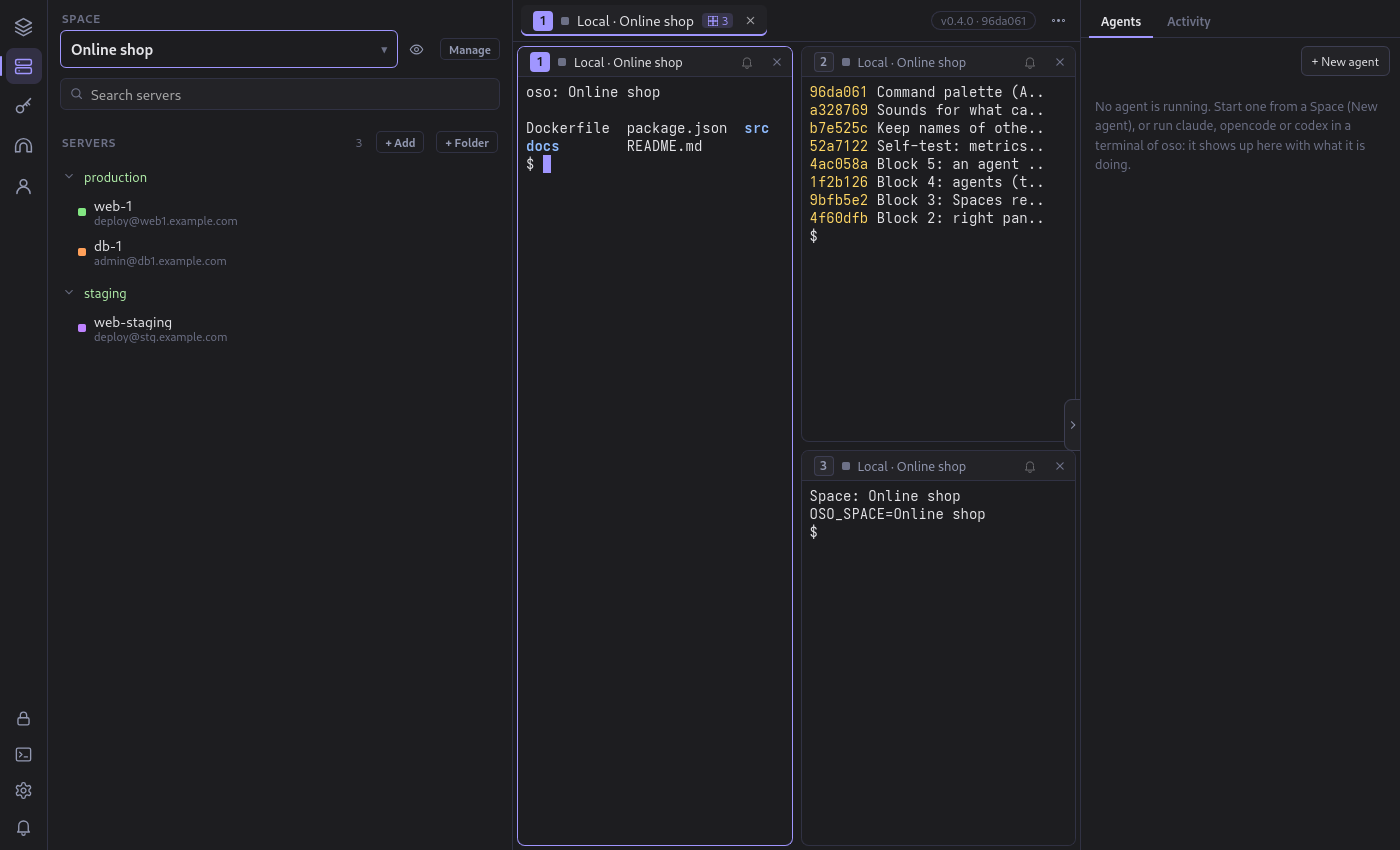
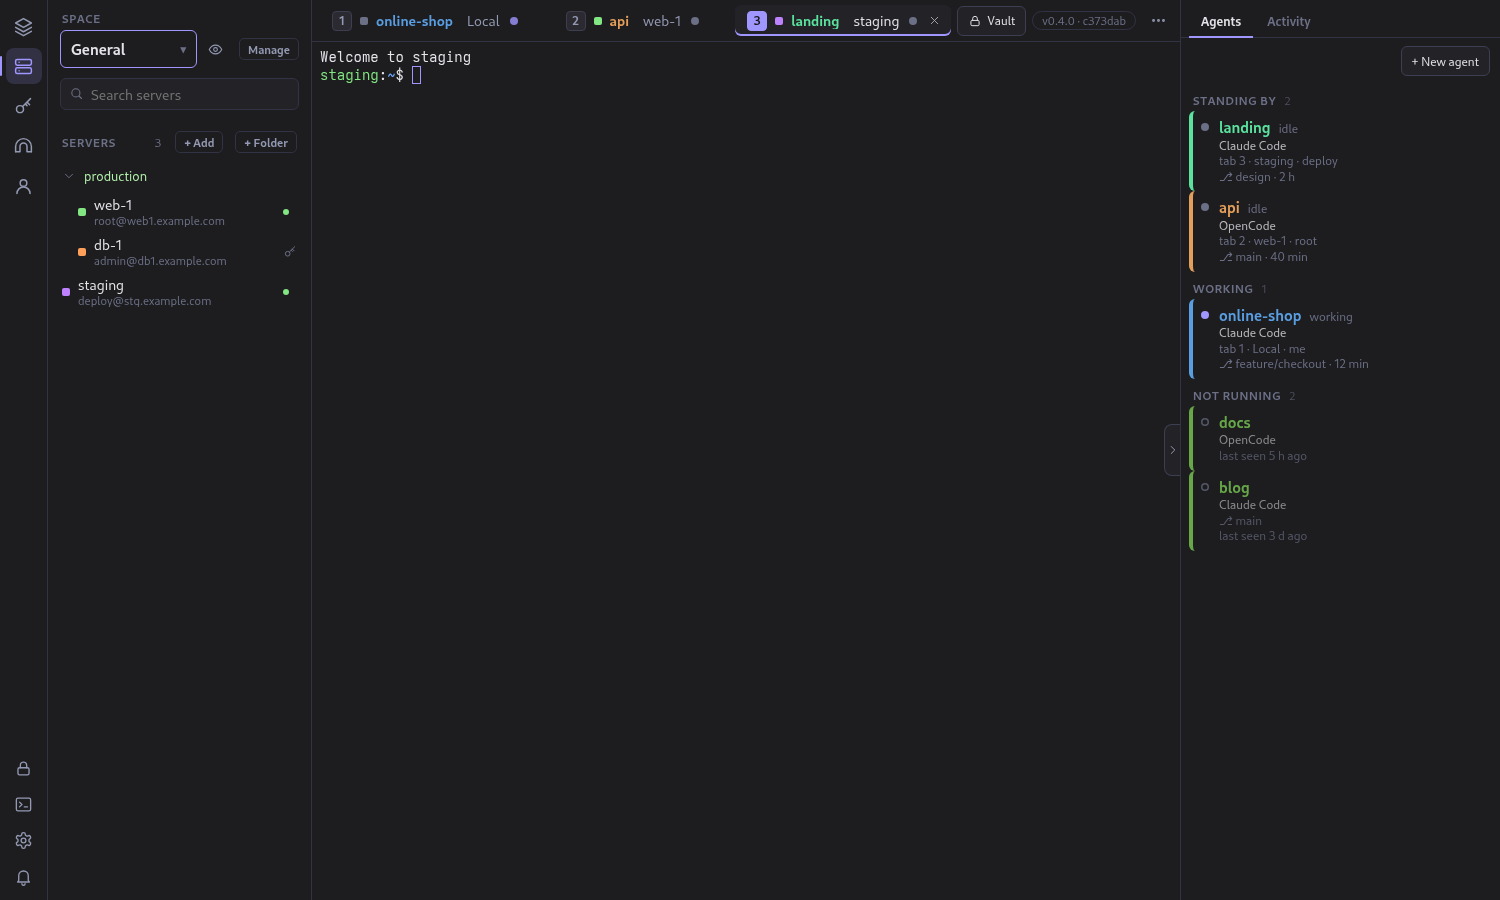
One-line installer (install.sh), README: Install, agents that stay, tunnel links, Allow all, Vault; new window picture with demo data; neutral user name in examples

diff --git a/ui/tests/agents_state.test.ts b/ui/tests/agents_state.test.ts
@@ -51,10 +51,10 @@ describe("the attention queue", () => {
 });
 
 describe("what is said from outside the window", () => {
-  const now = (state: AgentState, sid = 1) => [{ sid, name: "Claude Code", state, where: "tab 1 · Local · seya" }];
+  const now = (state: AgentState, sid = 1) => [{ sid, name: "Claude Code", state, where: "tab 1 · Local · me" }];
   it("is said when an agent starts to need you, and when one that was working finishes, once", () => {
-    expect(noticesFor(new Map([[1, "working"]]), now("needs_you"))).toEqual([{ event: "needs", sid: 1, title: "Claude Code needs you", body: "tab 1 · Local · seya" }]);
-    expect(noticesFor(new Map([[1, "working"]]), now("finished"))).toEqual([{ event: "finished", sid: 1, title: "Claude Code finished", body: "tab 1 · Local · seya" }]);
+    expect(noticesFor(new Map([[1, "working"]]), now("needs_you"))).toEqual([{ event: "needs", sid: 1, title: "Claude Code needs you", body: "tab 1 · Local · me" }]);
+    expect(noticesFor(new Map([[1, "working"]]), now("finished"))).toEqual([{ event: "finished", sid: 1, title: "Claude Code finished", body: "tab 1 · Local · me" }]);
     expect(noticesFor(new Map([[1, "needs_you"]]), now("needs_you"))).toEqual([]);
   });
   it("says nothing the first time an agent is seen, nor for a finish that was not after work, nor for work or rest", () => {

diff --git a/ui/src/rpanel.ts b/ui/src/rpanel.ts
@@ -132,7 +132,7 @@ export interface AgentRow {
   sid: number;
   /** "Claude", "Opencode"… */
   name: string;
-  /** The tab as the person sees it: "tab 1 · Local · seya". */
+  /** The tab as the person sees it: "tab 1 · Local · me". */
   where: string;
   folder: string;
   branch: string;
@@ -180,7 +180,7 @@ export interface PanelCtx {
   newAgent(): void;
   /** Goes to the tab of this terminal. */
   focus(sid: number): void;
-  /** The tab as the person sees it ("tab 1 · Local · seya"), or `undefined` when that terminal is closed. */
+  /** The tab as the person sees it ("tab 1 · Local · me"), or `undefined` when that terminal is closed. */
   tabLabel(pane: number): string | undefined;
   /** In focus mode no panel is shown and nothing opens one by itself. */
   focusMode(): boolean;

diff --git a/ui/src/api.mock.ts b/ui/src/api.mock.ts
@@ -337,7 +337,7 @@ export function mockBackend(): Backend {
       const a = activity.find((x) => x.id === id) as (Activity & { output?: string }) | undefined;
       return a ? { command: a.command, output: a.output ?? a.preview, cut: false } : null;
     },
-    localUser: async () => "seya",
+    localUser: async () => "me",
     agentStatus: async (pending) => {
       // as the engine does: a request waiting makes its terminal "needs you", also when nothing else is known about the agent there
       const rows: AgentStatusRow[] = agents.map((a) => ({ ...a, ...(pending.includes(a.sid) ? { state: "needs_you" as const, source: "approval" as const } : {}) }));

diff --git a/ui/src/api.ts b/ui/src/api.ts
@@ -413,7 +413,7 @@ export interface Backend {
   auditRecent(limit: number): Promise<AuditEntry[]>;
   /** The whole command and output of one request (what Details shows); `null` for an old log line. */
   activityDetail(id: number): Promise<ActivityDetail | null>;
-  /** The name of the person using this computer ("seya"). */
+  /** The name of the person using this computer ("me"). */
   localUser(): Promise<string>;
   /** The agents that run in the terminals, and what each is doing. `pending`: terminals with a request waiting. */
   agentStatus(pending: number[]): Promise<AgentStatusRow[]>;

diff --git a/ui/tests/rpanel.test.ts b/ui/tests/rpanel.test.ts
@@ -41,7 +41,7 @@ describe("the words of the panel", () => {
     expect(resultLabel(act({ state: "running" }))).toBe("running…");
     expect(resultLabel(act({ state: "denied" }))).toBe("not run");
     expect(resultLabel(act({ state: "done" }))).toBe("");
-    expect(whoLabel(act(), "tab 1 · Local · seya")).toBe("Claude · tab 1 · Local · seya");
+    expect(whoLabel(act(), "tab 1 · Local · me")).toBe("Claude · tab 1 · Local · me");
     expect(whoLabel(act({ agent: "" }))).toBe("An AI agent · terminal closed");
   });
 });

diff --git a/ui/src/app.ts b/ui/src/app.ts
@@ -899,7 +899,7 @@ export class App {
 
   // ------------------------------------------------------------ rendering
 
-  /** The tab of a terminal as the person sees it: "tab 1 · Local · seya". `undefined` when it is closed. */
+  /** The tab of a terminal as the person sees it: "tab 1 · Local · me". `undefined` when it is closed. */
   private tabLabel(sid: number): string | undefined {
     const t = this.ws.tabs.get(sid);
     if (!t) return undefined;

diff --git a/src-tauri/src/main.rs b/src-tauri/src/main.rs
@@ -235,7 +235,7 @@ fn agent_activity_detail(state: State<AppState>, id: u64) -> Res<Option<oso_core
     Ok(oso_core::audit::find_detail(&path, id))
 }
 
-/// Who is using this computer, for the label of a terminal ("tab 1 · Local · seya").
+/// Who is using this computer, for the label of a terminal ("tab 1 · Local · me").
 #[tauri::command]
 fn local_user() -> String {
     std::env::var("USER")

diff --git a/README.md b/README.md
@@ -9,8 +9,21 @@ A graphical SSH workspace for Linux: your servers in a tree, terminals that tile
 you can change. Passwords live in an encrypted vault and are typed for you at the prompt they belong to.
 
 <p align="center">
-  <img src="assets/oso-window.png" width="900" alt="oso: the Space selector and server tree on the left, three terminals of the Space in the middle, the agents panel on the right">
+  <img src="assets/oso-window.png" width="900" alt="oso: the server tree on the left, tabs named after the project of the agent in them, and the Agents panel on the right with Standing by, Working and Not running">
 </p>
+
+## Install
+
+Linux, x86_64, no root needed:
+
+```sh
+curl -fsSL https://raw.githubusercontent.com/seyadog/oso-tools/main/install.sh | sh
+```
+
+It downloads the latest release, checks its checksum, puts the program in `~/.local/share/oso`, a link `oso` in `~/.local/bin`
+and an entry in the applications menu. It needs WebKitGTK 4.1 (Fedora: `sudo dnf install webkit2gtk4.1`; Debian/Ubuntu:
+`sudo apt install libwebkit2gtk-4.1-0`); the script tells you if something is missing. To remove it: delete
+`~/.local/share/oso`, `~/.local/bin/oso` and `~/.local/share/applications/oso.desktop` (your data in `~/.config/oso` stays).
 
 Servers, folders and the vault live in `~/.config/oso` (`servers.json`, `vault.json`); layout, hotkeys and snippets are saved there too.
 
@@ -30,22 +43,23 @@ Servers, folders and the vault live in `~/.config/oso` (`servers.json`, `vault.j
 - **Closing:** the **×** on a terminal, or `Alt+W`. A session that ended cleanly closes itself; one that failed stays with `Enter: reconnect`.
 - **Broadcast:** `Alt+B` (or the broadcast icon): what you type goes to every terminal of *this tab*, on or off. It belongs to the tab: other tabs are not touched, and a tab keeps it across restarts.
 - **Agents:** in a Space, *New agent* asks for a folder and an agent (Claude Code, OpenCode, Codex, or any command you add under Settings → Agents), optionally in a **git worktree** of its own (a new branch in `<repo>.worktrees/<branch>`, so that several agents do not step on each other), opens a local terminal there with the Space's secrets and key, and starts the agent. oso also **finds agents you start by hand** in any of its local terminals (it looks at the processes that carry the terminal's `OSO_PANE`) and shows, in the right panel's *Agents* tab (grouped by Space), the agent, folder, git branch, state and how long: **needs you** (a request of its own is waiting in oso: exact), **working**, **finished**, **idle**. The state comes from the most exact signal there is: a request waiting in oso, then the agent's own hooks (`oso integration install claude|opencode` also writes them: Claude Code's `hooks` in `~/.claude/settings.json`, an OpenCode plugin in `~/.config/opencode/plugins/oso.js`; they run `oso hook <agent> <event>`, which prints nothing and never fails), then the process (ended = finished); only when all that is known is "it runs" does the window guess from the screen (marked "guessed"). A dot on each tab shows it; `Alt+N` jumps to the agent that needs you (the one that has waited longest first, then the next); a desktop notice (`notify-send`, click to go to the tab) says when one needs you or finishes while oso is not in front.
+- **Agents that stay:** the Agents tab has three groups: **Standing by** (open, doing nothing), **Working** and **Not running**. An agent oso has seen once stays in *Not running* after you close it or restart the computer (with its folder, branch and Space); a click opens a terminal in that folder and starts it again. A terminal you close stays there too (one entry per server and folder): a click opens it again. The tab of a terminal with an agent shows the project's name in the agent's colour, so you know which one is which. `×` takes an entry off the list.
 - **Sounds and colour for what calls for you:** a sound plays when an agent finishes, when one needs you (a request waiting, or waiting for your answer) and when a terminal you were watching with the bell is done; the terminal and its tab get a colour border (green: done, amber: needs you) until you look at them. It stays quiet while the window is in front on that very tab, and one agent does not sound more than once every 5 seconds. Settings → Sounds: on or off, volume, and for each of the two events oso's sound, the sound of the system (the desktop theme's `complete` and `message`) or a file of yours, each with a Test button. The audio is the window's own; the sound that comes with oso is part of the app.
 - **Spaces:** a Space is one piece of work: its work folders (repos), servers (single ones or whole folders of the tree), secrets (API keys, SSH keys), tunnels that open with it, free-text notes, and the tabs you open for it. Make one from the Spaces icon on the left rail (*+ New Space*), or arrange some terminals in a tab and press `Alt+G` (*Save this tab in a Space*). Double-click a Space and its tabs come back as they were (the saved commands are typed only once the terminal shows a prompt, never at a password question) and its tunnels start; a terminal opened in a Space gets only that Space's secrets and its own ssh-agent (only that Space's keys), and starts in its folder. Saved in `oso-spaces.json`. The groups of older versions (`groups.json`) became one Space each the first time; the old file is kept as `groups.json.migrated`.
 - **Reconnecting:** if a connection drops (wifi, a laptop that slept), the terminal counts down and connects again by itself, with growing waits (2 s up to 1 min, 8 tries), keeping what it showed and marking where it reconnected. `Enter` connects at once, `Esc` stops. It never retries after a refused login (a wrong password could lock the account). A new connection is a new shell: programs that ran on the server are gone (use a terminal multiplexer on the server to keep them).
 - **Changed server key:** if a server shows a different key than the saved one, oso says what that means in plain words, shows the new fingerprint and offers to forget the old key (`ssh-keygen -R`).
 - **Tell me when it is done:** after you start a long command, `Alt+A` (the bell). When the terminal is back at its prompt (or has been silent for 20 s, or its connection ended) you get a message, a desktop notification if you are looking elsewhere (`notify-send`), and a mark on the tab. It speaks once.
-- **Tunnels:** `Alt+T` (or the tunnel icon, bottom left). Port forwards per server, each with a switch: *local* (a port here that leads to something the server can reach, `ssh -L`), *remote* (`ssh -R`) and *SOCKS proxy* (`ssh -D`). They use the same login and jump hosts as a terminal, and stay on while oso is open. A failure is shown next to the tunnel in words (port in use, login refused…).
+- **Tunnels:** `Alt+T` (or the tunnel icon, bottom left). Port forwards per server, each with a switch: *local* (a port here that leads to something the server can reach, `ssh -L`), *remote* (`ssh -R`) and *SOCKS proxy* (`ssh -D`). They use the same login and jump hosts as a terminal, and stay on while oso is open. A failure is shown next to the tunnel in words (port in use, login refused…). A *local* tunnel that is on shows its address (`http://localhost:PORT`): click it to open it in the browser, or copy it. Tunnels can be edited from the left panel too.
 - **Files:** drag files or folders from your file manager onto a terminal to upload them to its server, or `Alt+U` to type the paths (it also downloads). Uses `scp` with the same login and jump hosts; progress shows at the bottom right.
 - **Open a host:** double-click it in the list, the ▶ on it, drag it onto the screen, or `Alt+K` (type a few letters, Enter). Snippets (saved commands) are in the toolbar; Settings has the hotkeys.
 - **Servers:** the same host can be opened as many times as you want. Drag a server onto a folder to file it. Servers can go through a jump host. 
-- **Secrets:** the key icon (bottom left) opens the vault: named, typed secrets (password, sudo password, SSH key, API key, token, one-time codes), each in one Space or in General, and with an optional environment variable. Filter by text, type or Space; show, copy (the clipboard is cleared after 30 s), change or delete each one; secrets not changed for 90 days are marked. Names and notes are encrypted too. A server's saved passwords are secrets like the others. A vault from an older oso is migrated when it is opened, and the old file is kept as `vault.json.v1.bak`.
+- **Secrets:** the **Vault** button (top bar) or the key icon opens the vault; the list on the left also shows each secret with *show* (15 seconds) and *copy*: named, typed secrets (password, sudo password, SSH key, API key, token, one-time codes), each in one Space or in General, and with an optional environment variable. Filter by text, type or Space; show, copy (the clipboard is cleared after 30 s), change or delete each one; secrets not changed for 90 days are marked. Names and notes are encrypted too. A server's saved passwords are secrets like the others. A vault from an older oso is migrated when it is opened, and the old file is kept as `vault.json.v1.bak`.
 - **General, and which Space you work in:** there is no other grouping than Spaces. What is in no Space is **General** and is available in every Space. The selector at the top of the left panel says which Space you work in (*General* when none; the eye shows everything of every Space; *Manage* edits the Space in use, or what General fixes). A server, a folder of the tree or a secret is in one Space or in General: choose it in its form (*Space*) or in the Space's own form. A Space's agent sees its own things and General's, never another Space's; an agent in General sees only General. A Space (and General) can fix a Tailscale account, a GitHub account and a default proxy for its terminals; oso asks before switching accounts. The choice is remembered in `settings.json`. Older versions had *profiles*: the first time this version starts, each became a Space (the default one became General), a copy of the old files is kept in `backup-before-spaces-<time>/` and oso tells you once.
 - **Local terminals and secrets:** a terminal of this computer is born inside the Space in use (or General): its environment has `OSO=1`, `OSO_SPACE` (the Space's name, or `General`), and every secret of General and of that Space (the Space's wins) that has an environment variable and is marked as visible to agents (for example `ANTHROPIC_API_KEY`), so an agent started there needs no `.env` and no key pasted into a chat. With the vault locked the terminal still opens, without secrets, and its title says so. Each such terminal also gets a private `OSO_PANE` / `OSO_TOKEN` / `OSO_SOCKET`. "This computer's sudo password" (in Secrets) is typed at sudo's question (`[sudo] password for…`, also in Spanish), once per command, never twice in a row.
 - **Notes, kind, proxy and tunnels per server:** a server's form has free **notes** ("nginx + API node, logs in /var/log/your-service"), what it is for (**production** draws its tab and terminal in red) and the **proxy** it connects through. A proxy (SOCKS5 or HTTP, saved from *Manage*, *Proxies…*) is used by the first hop of the connection with `ncat` (Fedora: `nmap-ncat`) or the OpenBSD `nc`; if neither is installed oso says so instead of connecting. A Space (or General) can also have a default proxy: its local terminals get `HTTP_PROXY`, `HTTPS_PROXY`, `ALL_PROXY` and `NO_PROXY` (and lowercase), in that terminal only. Tunnels have a name; **Tunnels** on the left lists them with a switch each, and one marked *open with every terminal* is added (`-L`/`-R`/`-D`) to every terminal of its server.
 - **Accounts (GitHub and Tailscale):** oso does not keep their tokens; it only switches them, by asking `gh` (`gh auth switch`) and `tailscale` (`tailscale switch`). The **Accounts** section on the left shows who is in use and a *Use* button for each other account (a tool that is not installed is hidden). A Space (or General) can ask for a GitHub user and a Tailscale account: when you switch to it oso shows which ones would change and asks (*Switch*, *Go in without switching* or *Cancel*); a switch that fails is shown without stopping the rest. A server can say it is reached on `tailscale:<account>`; if another account is in use oso asks *Switch to …?* (or *Connect anyway*) before it launches ssh. Note: Tailscale only lists its accounts to an *operator*; without it oso shows the account in use and says to run `sudo tailscale set --operator=$USER` once.
 - **SSH keys in the vault, and oso as an ssh-agent:** an *SSH key* secret holds an OpenSSH private key (without a passphrase). A server whose authentication is *Key from the vault* logs in with it: oso offers the key through its own ssh-agent (a private socket, `$XDG_RUNTIME_DIR/oso/agent.sock`, mode 0600) and only while the vault is unlocked; with it locked there is nothing to list and nothing to sign, and the private key never leaves oso (`ssh` only receives signatures; RSA signs with SHA-2, never SHA-1). Each hop of a jump chain signs with its own key. Local terminals also get `SSH_AUTH_SOCK`, so `git push` works inside oso: the agent hands on to the agent that was running before (yours), so the keys you already had keep working there. *Secrets → Import from ~/.ssh…* shows what is in `~/.ssh` (keys `id_*` and the hosts of `config`, with their `ProxyJump`), asks the passphrase of a key once, and keeps the key in the vault; **your files are never changed or deleted by the import**: afterwards it only asks if you want the originals deleted, with *keep them* as the first answer. Keys that cannot go in the vault (FIDO security keys, old PEM format) stay as a key file.
-- **Right panel (`Alt+J`, or the arrow on the right edge):** *Sessions* lists every open terminal (server, Space, since when, production in red); a click goes to its tab and the cross closes it. *Agent activity* lists everything an AI agent asked of oso, newest first: which agent and pane, the server, the exact command, whether you allowed it or it went through by itself (and under which policy), and how it ended (exit code; *Details* shows why it was decided and the first lines of the output). A request that is waiting sits at the top, in amber, and is answered right there (*Deny*, *In a terminal*, *Allow once*). With the panel open there is no window over the screen; with it closed the request comes as a window, as before, and the arrow shows an amber dot (waiting) or a violet one (an agent did something since you last looked). Drag the panel's left edge to change its width; open/closed and width are remembered. The data is read from `audit.jsonl`.
+- **Right panel (`Alt+J`, or the arrow on the right edge):** *Sessions* lists every open terminal (server, Space, since when, production in red); a click goes to its tab and the cross closes it. *Agent activity* lists everything an AI agent asked of oso, newest first: which agent and pane, the server, the exact command, whether you allowed it or it went through by itself (and under which policy), and how it ended (exit code; *Details* shows why it was decided and the first lines of the output). **Ask / Allow all** at the top of *Activity*: *Allow all* lets everything through without asking, except hosts marked production, until you close oso (it always starts in *Ask*). A request that is waiting sits at the top, in amber, and is answered right there (*Deny*, *In a terminal*, *Allow once*). With the panel open there is no window over the screen; with it closed the request comes as a window, as before, and the arrow shows an amber dot (waiting) or a violet one (an agent did something since you last looked). Drag the panel's left edge to change its width; open/closed and width are remembered. The data is read from `audit.jsonl`.
 - **AI agents (`oso mcp`):** any agent that speaks MCP (Claude Code, OpenCode, Codex…) can use oso instead of being handed passwords. Each oso terminal gets a private token (`OSO_TOKEN`, with `OSO_PANE` and `OSO_SOCKET`); `oso mcp` (the same program, started by the agent) asks oso's background server, which only answers a request whose token belongs to a terminal that is still open: **outside oso there is no access**. The tools: `oso_context` (call it first: the Space, servers with their notes and whether they are production, tunnels, the *names* of the variables and secrets, never a value), `oso_hosts`, `oso_run` (a command on a server, no terminal, with stdout, stderr and exit code; if the command uses `sudo` the answer carries a `sudo_note` saying whether a sudo password is saved for that server, because a command run this way cannot answer sudo's password question), `oso_sudo` (sudo on this computer; oso types the password), `oso_run_with` (a local command with named secrets in its environment), `oso_tunnel` and `oso_focus` (which server the user has selected and which ssh sessions are open: names only, never what is on a screen, and only servers the agent may use). **An agent started in a Space sees only that Space:** `oso_context` (and the instructions the MCP gives at start), `oso_hosts`, `oso_run`, `oso_run_with`, `oso_sudo` and `oso_tunnel` are limited to its servers, secrets, tunnels and notes, and what is outside answers exactly like what does not exist. The Space is the terminal's: the background server stores it when the window creates the terminal and gives it to the window with every request; the agent cannot name or change it. A deleted Space closes everything for its agents. Everything that is not a plain read opens a window that names the pane ("Claude in example-api, pane 2"), the host and the exact command: *Allow once*, *Always for read-only commands on this host*, *Deny*, or *Open in a terminal* (the command is typed there for you to run). A server's form says what agents may do on it (*ask every time*, *let read-only commands through*, *never*); a production server always asks. What a program printed is blanked of every secret of the vault before the agent sees it, and everything agents asked is in `audit.jsonl` in oso's folder (append-only: the command, which policy applied and why, and the first lines of what came back, all blanked of vault secrets; *Settings → What AI agents asked*). `oso integration install claude|opencode|codex` registers `oso mcp` and a short note in the agent's global instructions (`--dry-run` shows what would change; a copy of each old file is kept; `uninstall` takes back exactly that).
 - **One-time codes (MFA):** a *One-time codes* secret holds the seed of an authenticator app (base32 text or the `otpauth://` link). *Secrets → key icon on its row* shows the code for this moment and copies it for 30 s; the seed never leaves. A server can be given a seed (*One-time codes it asks for*): when ssh asks `Verification code:` (or an OTP/MFA question) oso types the code of that moment, once.
 - **Bringing secrets in:** *Secrets → Import…* has three ways: the keys and hosts of `~/.ssh`, the `.env` files of your projects (names and lengths are listed, never values; they come in as `project/VARIABLE` without an environment variable of their own), and a Proton Pass export (CSV or JSON, unencrypted: delete it afterwards). Originals are never deleted by the import; it asks, and *keep them* is the first answer. `oso scan <folder> [--import]` does the `.env` one from the command line.
